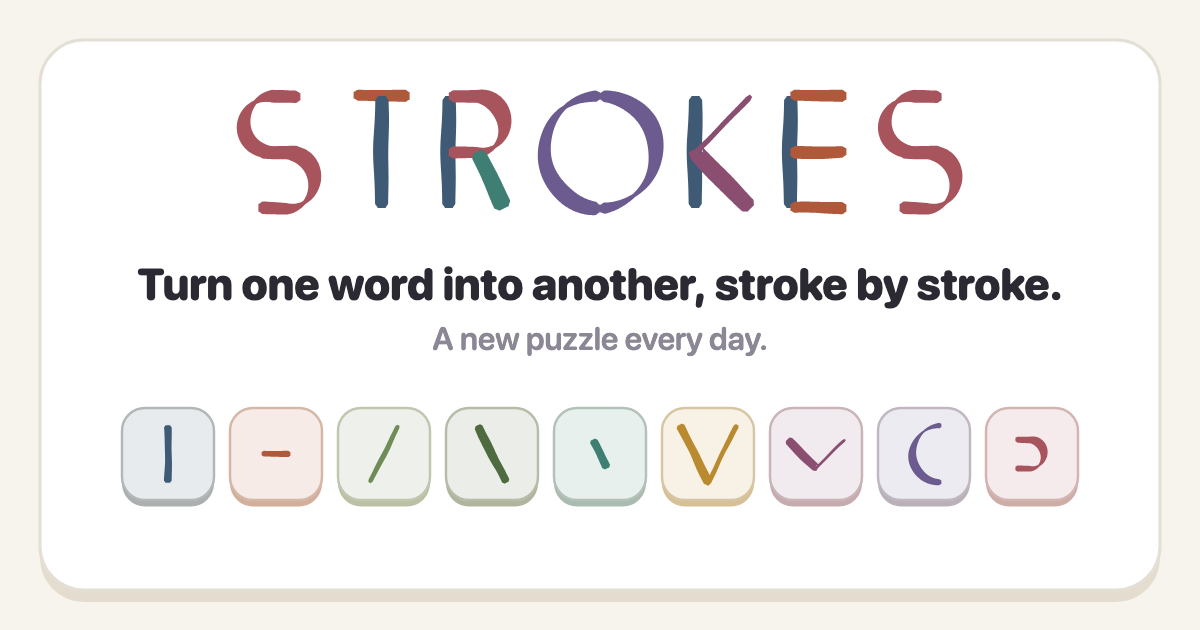
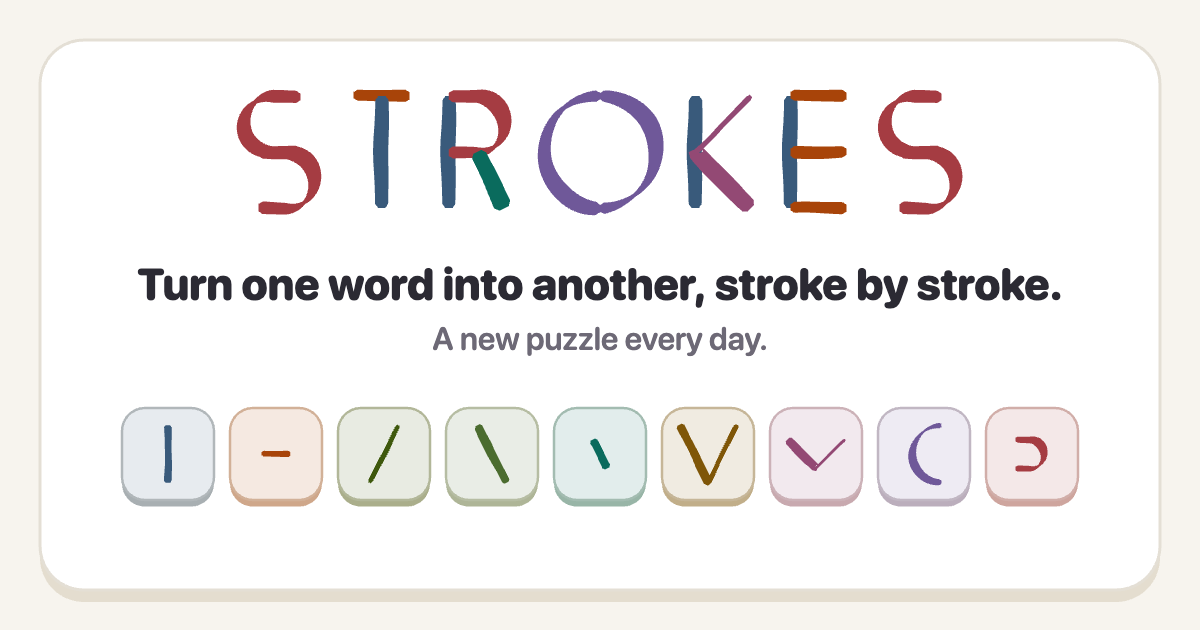
Light-theme colours that stand out as much as the dark ones
The light strokes are deeper and a little richer in the same hues, each at
least as far from a cell's white as its dark-mode colour is from the dark
cell (5.9-8:1, averaging 6.5 against 5.2 before, as the dark ones do), never
weaker than before and no harder to tell apart. The ochre V becomes a deep
amber. The gold goal ring, grey text, and success, warning and remove colours
are deepened too. The share card and link preview (og.png, redrawn) use the
same colours.

diff --git a/src/styles.css b/src/styles.css
@@ -2,33 +2,36 @@
   --bg: #f7f4ee;
   --surface: #ffffff;
   --ink: #2b2a33;
-  --muted: #8b8794;
+  --muted: #6d6976;
   --line: #e4dfd5;
-  --gold: #d9a520;
+  --gold: #ad8211;
   --ink-pot: #34478f;
   --ink-fill: #26357a;
   --feather: #f4ecdc;
-  --spicy: #e4572e;
+  --spicy: #d4410d;
   /* A placed stroke under the mouse: red, as a click removes it (orange-red --spicy is "doesn't fit"). */
-  --remove: #e5484d;
-  --ok: #5e8c4f;
+  --remove: #df2c3b;
+  --ok: #497c38;
   --ledge: #e4ddcf;
   --pastel-1: #ffc95c;
   --pastel-2: #d6b8f2;
   --pastel-3: #a9d6bc;
   --pastel-4: #b6c5f3;
 
-  /* Stroke colours: earth pigments (slate, terracotta, ochre, sage, moss, verdigris, plum,
-     heather, clay). */
-  --t-LV: #3f5a74;
-  --t-H: #b0583a;
-  --t-LD: #6f8c58;
-  --t-LB: #4e6b3f;
-  --t-SB: #3f7f73;
-  --t-BV: #b98a2f;
-  --t-SC: #8a4f70;
-  --t-C: #6b5b8f;
-  --t-P: #a8545d;
+  /* Stroke colours: earth pigments (slate, terracotta, olive, moss, verdigris, amber, plum,
+     heather, clay), each at least as far from the white of a letter's cell as its dark-mode colour
+     is from the dark one (5.9–8:1), and never less than before, so the strokes stand out as much in
+     both. Same hues, deeper and a little richer; the ochre is a deep amber (6.5:1), since no yellow
+     is that dark and still golden. */
+  --t-LV: #395a7b;
+  --t-H: #a84409;
+  --t-LD: #3e580c;
+  --t-LB: #4b6c2f;
+  --t-SB: #0a6b5d;
+  --t-BV: #7f5608;
+  --t-SC: #934974;
+  --t-C: #6f5899;
+  --t-P: #a53c42;
 
   color-scheme: light;
 }

diff --git a/src/share.ts b/src/share.ts
@@ -47,17 +47,17 @@ const PAPER = {
   bg: '#f7f4ee',
   surface: '#ffffff',
   ink: '#2b2a33',
-  muted: '#8b8794',
+  muted: '#6d6976',
   line: '#e4dfd5',
   ledge: '#e4ddcf',
-  gold: '#d9a520',
-  spicy: '#e4572e',
+  gold: '#ad8211',
+  spicy: '#d4410d',
   squares: ['#efeae0', '#f2c65a', '#e8913a', '#d9542f'],
   squareLedges: ['#ddd6c8', '#d6a63a', '#c9752a', '#b54224'],
   /** Colour-blind: yellow, blue, red (light, middle, dark to red-green colour blindness too). */
   squaresCB: ['#efeae0', '#f2c65a', '#3f7fd6', '#b8402a'],
   squareLedgesCB: ['#ddd6c8', '#d6a63a', '#2f63ad', '#8f2f1e'],
-  tiles: { LV: '#3f5a74', H: '#b0583a', LD: '#6f8c58', LB: '#4e6b3f', SB: '#3f7f73', BV: '#b98a2f', SC: '#8a4f70', C: '#6b5b8f', P: '#a8545d' } as Record<string, string>,
+  tiles: { LV: '#395a7b', H: '#a84409', LD: '#3e580c', LB: '#4b6c2f', SB: '#0a6b5d', BV: '#7f5608', SC: '#934974', C: '#6f5899', P: '#a53c42' } as Record<string, string>,
 };
 
 const FONT = 'ui-rounded, "SF Pro Rounded", system-ui, -apple-system, "Segoe UI", sans-serif';

diff --git a/src/celebration/plain.ts b/src/celebration/plain.ts
@@ -11,7 +11,7 @@ export function plainScene(THREE: Three, { word, cssColor }: { word: string; css
   const index: number[] = [];
   const HALF = 0.06;
   for (const { tile, pts } of wordStrokes(word)) {
-    const c = new THREE.Color().setRGB(...cssColor(`--t-${tile}`, '#3f5a74'), THREE.SRGBColorSpace);
+    const c = new THREE.Color().setRGB(...cssColor(`--t-${tile}`, '#395a7b'), THREE.SRGBColorSpace);
     const base = positions.length / 3;
     pts.forEach((p, i) => {
       const [a, b] = [pts[Math.max(0, i - 1)], pts[Math.min(pts.length - 1, i + 1)]];

diff --git a/DESIGN.md b/DESIGN.md
@@ -710,3 +710,23 @@ No horizontal scroll at 360–430 px. Not yet tried on a real phone.
 - **`npm run daily` defaults to 5 letters;** `--letters 4` reaches the old game. Checking a day in prints its number.
 - **`docs/daily-celebration-prompt.md`** is kept, marked as no longer followed. It's the contract for the 4-letter celebration scenes that `src/celebration/scenes.test.ts` checks.
 
+
+## Light-theme colours that stand out like the dark ones (2026-10-09, branch `light-colors`)
+- **The owner's ask:** the light theme's colours should stand out as much as the dark theme's. Measured as contrast against what they're drawn on, the dark theme's strokes average 6.5:1 against a cell, but the light ones only 5.2:1. The light ochre V was 3.1:1 and the sage diagonal 3.8:1. The gold goal ring was 2.1:1 (10.6:1 in dark), and the grey text 3.2:1 (5.4:1).
+- **Strokes** (`--t-*` in `src/styles.css`): same hues, deeper and a little richer. Each is at least as far from a cell's white as its dark-mode colour is from the dark cell, and never less than before:
+
+  | Stroke | Before | After | Dark |
+  |---|---|---|---|
+  | long bar | #3f5a74 7.2 | #395a7b 7.2 | 6.4 |
+  | short bar | #b0583a 4.9 | #a84409 6.0 | 6.0 |
+  | long diagonal / | #6f8c58 3.8 | #3e580c 8.1 | 8.1 |
+  | long diagonal \ | #4e6b3f 6.0 | #4b6c2f 6.0 | 5.3 |
+  | short diagonal | #3f7f73 4.7 | #0a6b5d 6.4 | 6.5 |
+  | big chevron V | #b98a2f 3.1 | #7f5608 6.5 | 8.0 |
+  | small chevron | #8a4f70 6.1 | #934974 6.1 | 5.7 |
+  | arc | #6b5b8f 6.0 | #6f5899 5.9 | 6.0 |
+  | bowl | #a8545d 5.1 | #a53c42 6.3 | 6.3 |
+
+  The ochre V is a deep amber at 6.5:1 rather than 8:1, since no yellow that dark is still golden. The closest two strokes (short bar and bowl) are further apart than the closest two in dark (OKLab 0.059 against 0.048), so none is harder to tell from another.
+- **Accents** (light only): gold #d9a520 → #ad8211 (3.5:1, the goal ring and label), grey text #8b8794 → #6d6976 (5.3:1, as in dark), success green #5e8c4f → #497c38, warning orange #e4572e → #d4410d, and the remove red #e5484d → #df2c3b (about 4.6–5:1).
+- **The share card and link preview** are always drawn on paper, so they take the same colours (`PAPER` in `src/share.ts`). `public/og.png` was redrawn with `drawPreviewCard`.
